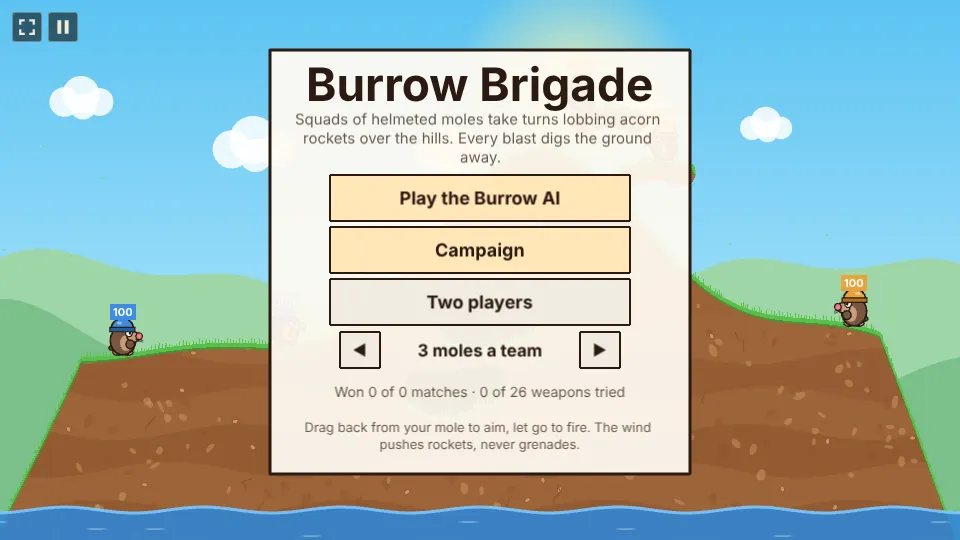
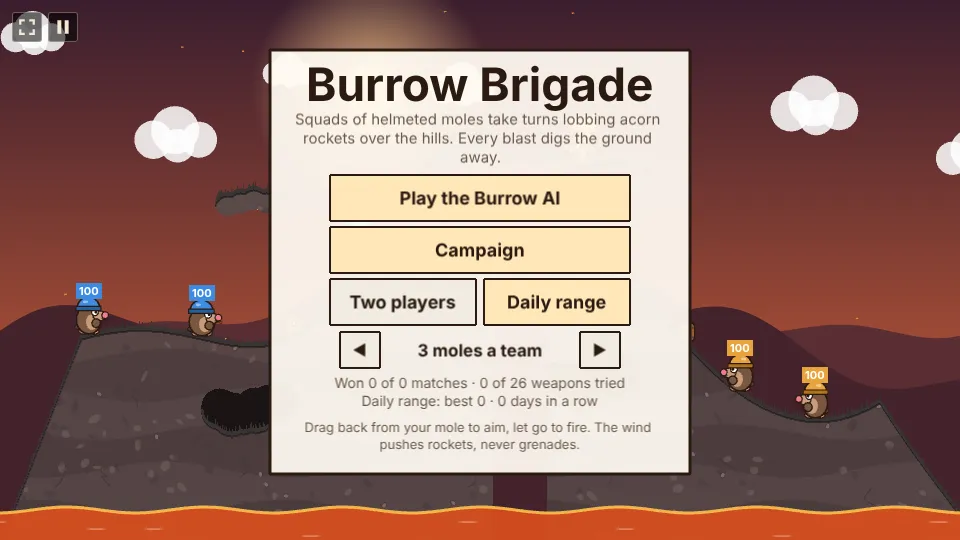
Burrow Brigade: daily range, match report and keg-aware AI (#743)
Requested by **Chriszly**

- Daily range: one try a day on a seeded range the same for everyone (map, kegs and five winds): one mole, five shots, four straw moles; damage plus 25 per knockout, with best and streak.
- Match report: the result names the star of the match, the mole that dealt the most damage.
- The Burrow AI counts a blast that sets off a powder keg next to an enemy as a hit, and avoids kegs next to its own moles.

Created with Claude Opus 5.5 (low)

diff --git a/games/burrow-brigade/src/scenes/GameScene.ts b/games/burrow-brigade/src/scenes/GameScene.ts
@@ -1,5 +1,6 @@
 import Phaser from 'phaser';
 import { playMusic, playSting, ui } from '../../../../shared/audio';
+import { dailyRand, finishDaily, loadDaily, startDaily, type DailyRecord } from '../../../../shared/daily';
 import { viewSize } from '../../../../shared/scaling';
 import { byDifficulty, settings } from '../../../../shared/settings';
 import { award } from '../../../../shared/trophies';
@@ -41,6 +42,11 @@ const SUDDEN_DEATH_TURN = 24;
 const BOLT_CLOUD = 96;
 /** The left team panel starts right of the corner buttons (full screen and pause). */
 const LEFT_PANEL = 104;
+/** The daily range: shots you get, straw moles to knock over, and the bonus for each one out. */
+const DAILY_SHOTS = 5;
+const DAILY_TARGETS = 4;
+const DAILY_KO = 25;
+const GAME = 'burrow-brigade';
 const FONT = '"Trebuchet MS", "Segoe UI", system-ui, sans-serif';
 const hex = (n: number) => '#' + n.toString(16).padStart(6, '0');
 const C = {
@@ -67,7 +73,7 @@ export class GameScene extends Phaser.Scene {
   terrain!: Terrain;
   theme!: Theme;
   teams: Team[] = [];
-  mode: 'ai' | 'duo' | 'watch' = 'ai';
+  mode: 'ai' | 'duo' | 'watch' | 'daily' = 'ai';
   turn = 0;
   turns = 0;
   active: Mole | null = null;
@@ -90,6 +96,11 @@ export class GameScene extends Phaser.Scene {
   private suddenDeath = SUDDEN_DEATH_TURN;
   /** The Quartermaster's upgrades for your side in this match (none outside the campaign). */
   private boost = boosts({});
+  /** Damage each mole dealt to enemies this match, for the match report. */
+  private dealt = new Map<Mole, number>();
+  /** The daily range's winds, one a shot, from today's seed; and the record once it ends. */
+  private dailyWinds: number[] = [];
+  private daily: DailyRecord | null = null;
   private walkTarget: number | null = null;
   private walkTimer = 0;
   private hold = { left: false, right: false };
@@ -168,6 +179,7 @@ export class GameScene extends Phaser.Scene {
       battle: this.battle,
       stars: this.campaign.stars.slice(),
       acorns: this.campaign.acorns,
+      dailyScore: this.daily?.score ?? null,
       view: { w: this.W, h: this.H },
     };
   }
@@ -261,14 +273,19 @@ export class GameScene extends Phaser.Scene {
     this.uiObjs.push(this.add.text(cx, top + 98, t('tagline'), { fontFamily: FONT, fontSize: '15px', color: hex(C.dim), align: 'center', wordWrap: { width: 380 } }).setOrigin(0.5).setDepth(151));
     this.button('play-ai', cx, top + 158, 300, 46, t('playAi'), () => this.startMatch('ai'), true);
     this.button('campaign', cx, top + 210, 300, 46, t('campaign'), () => this.showCampaign(), true);
-    this.button('play-duo', cx, top + 262, 300, 46, t('playDuo'), () => this.startMatch('duo'));
+    this.button('play-duo', cx - 77, top + 262, 146, 46, t('playDuo'), () => this.startMatch('duo'));
+    const today = loadDaily(GAME);
+    const d = this.button('daily', cx + 77, top + 262, 146, 46, t('daily'), () => this.startDaily(), !today.played);
+    if (today.played) d.txt.setColor(hex(0xa09080));
     this.button('size-down', cx - 120, top + 310, 40, 36, '◀', () => this.setSize(-1));
     this.button('size-up', cx + 120, top + 310, 40, 36, '▶', () => this.setSize(1));
     this.texts.size = this.add.text(cx, top + 310, t('teamSize', { n: this.size }), { fontFamily: FONT, fontSize: '17px', color: hex(C.ink), fontStyle: 'bold' }).setOrigin(0.5).setDepth(151);
     this.uiObjs.push(this.texts.size);
     const used = this.stats.used.length;
     this.uiObjs.push(
-      this.add.text(cx, top + 352, t('statsLine', { wins: this.stats.wins, games: this.stats.games, used, all: WEAPON_IDS.length }), {
+      this.add.text(cx, top + 352, t('statsLine', { wins: this.stats.wins, games: this.stats.games, used, all: WEAPON_IDS.length }) + '\n' + (today.score !== null
+        ? t('dailyDone', { score: today.score, best: today.best, streak: t('streak', { n: today.streak }) })
+        : t('dailyLine', { best: today.best, streak: t('streak', { n: today.streak }) })), {
         fontFamily: FONT, fontSize: '14px', color: hex(C.dim), align: 'center', wordWrap: { width: 380 },
       }).setOrigin(0.5).setDepth(151),
     );
@@ -375,7 +392,17 @@ export class GameScene extends Phaser.Scene {
     this.showDepot();
   }
 
-  startMatch(mode: 'ai' | 'duo' | 'watch', battle: number | null = null) {
+  /** Today's range: one mole, a few straw moles, five shots, on a map and winds the same for everyone today. */
+  startDaily() {
+    if (loadDaily(GAME).played) {
+      ui('refuse');
+      return;
+    }
+    startDaily(GAME);
+    this.startMatch('daily');
+  }
+
+  startMatch(mode: 'ai' | 'duo' | 'watch' | 'daily', battle: number | null = null) {
     this.clearAll();
     this.mode = mode;
     this.battle = mode === 'ai' ? battle : null;
@@ -387,11 +414,24 @@ export class GameScene extends Phaser.Scene {
     this.turns = 0;
     this.shots = 0;
     this.lostMole = false;
+    this.dealt.clear();
+    this.daily = null;
     playMusic(SONG, 'battle');
-    this.buildWorld(bt ? [bt.mine + this.boost.moles, bt.foes] : this.size, bt?.theme, [MAX_HP + this.boost.hp, MAX_HP]);
+    if (mode === 'daily') {
+      // Today's map, kegs and winds come from the day's seed, so every player shoots the same range.
+      const rand = dailyRand(GAME);
+      const real = Math.random;
+      Math.random = rand;
+      try {
+        this.buildWorld([1, DAILY_TARGETS]);
+        this.dailyWinds = Array.from({ length: DAILY_SHOTS }, () => Math.round((rand() * 2 - 1) * 10));
+      } finally {
+        Math.random = real;
+      }
+    } else this.buildWorld(bt ? [bt.mine + this.boost.moles, bt.foes] : this.size, bt?.theme, [MAX_HP + this.boost.hp, MAX_HP]);
     if (bt) for (const [id, n] of Object.entries(bt.bonus) as [WeaponId, number][]) this.teams[1].ammo[id] += n;
     for (const [id, n] of Object.entries(this.boost.ammo) as [WeaponId, number][]) this.teams[0].ammo[id] += n;
-    this.teams[1].ai = mode !== 'duo';
+    this.teams[1].ai = mode !== 'duo' && mode !== 'daily';
     this.teams[0].ai = mode === 'watch';
     this.turn = Math.random() < 0.5 && mode === 'watch' ? 1 : 0;
     this.buildHud();
@@ -401,7 +441,7 @@ export class GameScene extends Phaser.Scene {
         sides: { blue: { name: t('teamBlue'), color: hex(TEAM_COLORS[0]) }, amber: { name: t('teamAmber'), color: hex(TEAM_COLORS[1]) } },
         time: () => this.world.time * 1000,
       });
-    else {
+    else if (mode !== 'daily') {
       this.stats.games++;
       saveStats(this.stats);
     }
@@ -423,10 +463,11 @@ export class GameScene extends Phaser.Scene {
     this.world.turnTeam = this.turn;
     this.world.log = World.freshLog();
     const calm = Math.random() < 0.15;
+    if (this.mode === 'daily') this.world.wind = this.dailyWinds[Math.min(this.turns, DAILY_SHOTS - 1)];
     const kind = this.battle === null ? 'normal' : BATTLES[this.battle].wind;
     if (kind === 'strong') this.world.wind = (Math.random() < 0.5 ? -1 : 1) * Math.round(6 + Math.random() * 4);
     else if (kind === 'calm') this.world.wind = Math.round((Math.random() * 2 - 1) * 3);
-    else this.world.wind = calm ? 0 : Math.round((Math.random() * 2 - 1) * 10);
+    else if (this.mode !== 'daily') this.world.wind = calm ? 0 : Math.round((Math.random() * 2 - 1) * 10);
     this.phase = 'aim';
     this.timer = TURN_TIME + (this.turn === 0 ? this.boost.time : 0);
     this.aimAngle = m.facing > 0 ? -Math.PI / 4 : (-3 * Math.PI) / 4;
@@ -446,6 +487,12 @@ export class GameScene extends Phaser.Scene {
     const alive = this.teams.map((tm) => tm.moles.some((m) => m.alive));
     this.winner = alive[0] && !alive[1] ? 0 : alive[1] && !alive[0] ? 1 : -1;
     if (this.winner >= 0) for (const m of this.teams[this.winner].moles) if (m.alive) m.act = { kind: 'cheer', t: 0, dur: 99 };
+    if (this.mode === 'daily') {
+      this.daily = finishDaily(GAME, this.dailyScore());
+      playSting(SONG, 'win');
+      this.showResult();
+      return;
+    }
     if (this.mode === 'watch') {
       aiLog(this.winner === 1 ? 'amber' : 'blue', this.winner < 0 ? t('draw') : t('wins', { team: this.teamName(this.winner) }));
       this.time.delayedCall(4000, () => this.startMatch('watch'));
@@ -477,22 +524,56 @@ export class GameScene extends Phaser.Scene {
     this.showResult();
   }
 
+  /** The range's score: the damage done to the straw moles, plus a bonus for each one knocked out. */
+  private dailyScore() {
+    const straw = this.teams[1]?.moles ?? [];
+    return straw.reduce((s, m) => s + (m.maxHp - (m.alive ? m.hp : 0)) + (m.alive ? 0 : DAILY_KO), 0);
+  }
+
+  /** The mole that dealt the most damage to enemies this match, if any did. */
+  private star() {
+    let best: Mole | null = null;
+    for (const [m, n] of this.dealt) if (n > 0 && (!best || n > this.dealt.get(best)!)) best = m;
+    return best;
+  }
+
   private showResult() {
     this.clearUi();
     this.buildHud();
     const cx = this.W / 2;
     const cy = this.H / 2 - 20;
+    if (this.mode === 'daily') return this.showDailyResult(cx, cy);
     const tall = this.battle !== null;
-    this.uiObjs.push(this.add.rectangle(cx, tall ? cy + 40 : cy, 400, tall ? 320 : 200, C.panel, 0.95).setStrokeStyle(3, C.panelEdge).setDepth(150));
+    this.uiObjs.push(this.add.rectangle(cx, tall ? cy + 54 : cy + 12, 400, tall ? 348 : 224, C.panel, 0.95).setStrokeStyle(3, C.panelEdge).setDepth(150));
+    const star = this.star();
+    if (star)
+      this.uiObjs.push(
+        this.add.text(cx, cy + 4, t('starMole', { name: star.name, n: this.dealt.get(star)! }), { fontFamily: FONT, fontSize: '14px', color: hex(TEAM_COLORS[star.team]), fontStyle: 'bold' })
+          .setOrigin(0.5).setDepth(151),
+      );
     const title = this.winner! < 0 ? t('draw') : t('wins', { team: this.teamName(this.winner!) });
     this.uiObjs.push(
       this.add.text(cx, cy - 60, title, { fontFamily: FONT, fontSize: '30px', color: hex(this.winner! >= 0 ? TEAM_COLORS[this.winner!] : C.ink), fontStyle: 'bold', stroke: hex(INK), strokeThickness: 3 })
         .setOrigin(0.5).setDepth(151),
     );
     this.uiObjs.push(this.add.text(cx, cy - 20, t('resultLine', { turns: this.turns, shots: this.shots }), { fontFamily: FONT, fontSize: '15px', color: hex(C.dim) }).setOrigin(0.5).setDepth(151));
-    if (this.battle !== null) return this.showBattleResult(cx, cy);
-    this.button('rematch', cx, cy + 30, 260, 42, t('rematch'), () => this.startMatch(this.mode === 'duo' ? 'duo' : 'ai'), true);
-    this.button('menu', cx, cy + 78, 260, 36, t('menu'), () => this.showMenu());
+    if (this.battle !== null) return this.showBattleResult(cx, cy + 22);
+    this.button('rematch', cx, cy + 50, 260, 42, t('rematch'), () => this.startMatch(this.mode === 'duo' ? 'duo' : 'ai'), true);
+    this.button('menu', cx, cy + 98, 260, 36, t('menu'), () => this.showMenu());
+  }
+
+  /** The daily range's result: today's score, the best and the streak; one try a day. */
+  private showDailyResult(cx: number, cy: number) {
+    const d = this.daily!;
+    const out = this.teams[1].moles.filter((m) => !m.alive).length;
+    this.uiObjs.push(this.add.rectangle(cx, cy + 10, 400, 230, C.panel, 0.95).setStrokeStyle(3, C.panelEdge).setDepth(150));
+    this.uiObjs.push(
+      this.add.text(cx, cy - 70, t('daily'), { fontFamily: FONT, fontSize: '22px', color: hex(C.ink), fontStyle: 'bold' }).setOrigin(0.5).setDepth(151),
+      this.add.text(cx, cy - 32, t('dailyScore', { n: d.score ?? 0 }), { fontFamily: FONT, fontSize: '30px', color: hex(TEAM_COLORS[0]), fontStyle: 'bold', stroke: hex(INK), strokeThickness: 3 }).setOrigin(0.5).setDepth(151),
+      this.add.text(cx, cy + 6, t('dailyOut', { n: out, all: this.teams[1].moles.length }), { fontFamily: FONT, fontSize: '14px', color: hex(C.dim) }).setOrigin(0.5).setDepth(151),
+      this.add.text(cx, cy + 30, t('dailyBest', { best: d.best, streak: t('streak', { n: d.streak }) }), { fontFamily: FONT, fontSize: '14px', color: hex(C.ink), fontStyle: 'bold' }).setOrigin(0.5).setDepth(151),
+    );
+    this.button('menu', cx, cy + 82, 260, 40, t('dailyBack'), () => this.showMenu(), true);
   }
 
   /** A campaign battle's result: the three stars and what each asks, then on to the next battle. */
@@ -524,6 +605,7 @@ export class GameScene extends Phaser.Scene {
   }
 
   private teamName(i: number) {
+    if (i === 1 && this.mode === 'daily') return t('strawMoles');
     if (i === 1 && this.battle !== null) return t(`c_${BATTLES[this.battle].id}`);
     return i === 0 ? t('teamBlue') : t('teamAmber');
   }
@@ -983,9 +1065,16 @@ export class GameScene extends Phaser.Scene {
     }
     if (this.mode === 'ai' && this.teams[0].moles.some((m) => !m.alive)) this.lostMole = true;
     if (this.mode === 'watch' && log.damage) aiLog(this.side(), t('logDamage', { n: log.damage }));
+    if (this.active && log.damage) this.dealt.set(this.active, (this.dealt.get(this.active) ?? 0) + log.damage);
     this.turns++;
     const alive = this.teams.map((tm) => tm.moles.some((m) => m.alive));
     if (!alive[0] || !alive[1]) return this.finish();
+    if (this.mode === 'daily') {
+      // The straw moles never shoot back: the next shot is yours again, until the shots run out.
+      if (this.turns >= DAILY_SHOTS) return this.finish();
+      this.world.turnTeam = -1;
+      return this.beginTurn();
+    }
     // Sudden death: the water rises.
     if (this.turns >= this.suddenDeath) this.world.water -= 8;
     // Now and then a crate floats down.
@@ -1199,7 +1288,10 @@ export class GameScene extends Phaser.Scene {
         h.lineStyle(3, TEAM_COLORS[i], 1);
         h.strokeRoundedRect(x - 3, 5, 226, 50, 12);
       }
-      this.texts[`team${i}`]?.setText(`${this.teamName(i)}${tm.ai && this.battle === null ? ' · ' + t('aiTag') : ''}  ${tm.moles.filter((m) => m.alive).length}/${tm.moles.length}`);
+      const count = this.mode === 'daily' && i === 0
+        ? t('shotOf', { n: Math.min(this.turns + 1, DAILY_SHOTS), all: DAILY_SHOTS })
+        : `${tm.moles.filter((m) => m.alive).length}/${tm.moles.length}`;
+      this.texts[`team${i}`]?.setText(`${this.teamName(i)}${tm.ai && this.battle === null ? ' · ' + t('aiTag') : ''}  ${count}`);
     });
     // Wind.
     h.fillStyle(C.panel, 0.92);

diff --git a/games/burrow-brigade/src/howToPlay.ts b/games/burrow-brigade/src/howToPlay.ts
@@ -18,6 +18,7 @@ const en: HowToPlay = {
     'After you fire you have 3 seconds to scramble away from your own blast.',
     'Then the other team’s next mole takes its turn.',
     'The Campaign is eight battles against rival burrows, each with its own habit. Win one to open the next, and earn up to three stars: the win, a quick win and losing no mole.',
+    'The Daily range is one try a day, the same for everyone: five shots at four straw moles. Every point of damage counts, and each one knocked out adds 25.',
     'Campaign battles pay acorns. Spend them at the Quartermaster on helmets, longer turns, extra weapons, more crates and a new recruit.',
   ],
   tips: [
@@ -48,6 +49,7 @@ const de: HowToPlay = {
     'Nach dem Schuss hast du 3 Sekunden, um vor deiner eigenen Explosion zu fliehen.',
     'Dann ist der nächste Maulwurf des anderen Teams dran.',
     'Der Feldzug sind acht Schlachten gegen rivalisierende Baue, jeder mit seiner Eigenart. Gewinne eine, um die nächste zu öffnen, und hol bis zu drei Sterne: den Sieg, einen schnellen Sieg und keinen verlorenen Maulwurf.',
+    'Das Tagesziel ist ein Versuch am Tag, für alle gleich: fünf Schüsse auf vier Strohmaulwürfe. Jeder Schadenspunkt zählt, und jeder umgeworfene bringt 25 dazu.',
     'Schlachten im Feldzug bringen Eicheln. Gib sie beim Quartiermeister für Helme, längere Züge, Extrawaffen, mehr Kisten und einen neuen Rekruten aus.',
   ],
   tips: [

diff --git a/games/burrow-brigade/src/game/ai.ts b/games/burrow-brigade/src/game/ai.ts
@@ -73,6 +73,14 @@ export function planTurn(world: World, me: Mole, ammo: Record<WeaponId, number>,
         let score = Math.hypot(f.hit.x - target.x, f.hit.y - (target.y - 10));
         // Any enemy in the blast counts.
         for (const e of enemies) score = Math.min(score, Math.hypot(f.hit.x - e.x, f.hit.y - (e.y - 10)) + (e === target ? 0 : 12));
+        // A powder keg in the blast goes off too: good next to an enemy, bad next to a friend.
+        for (const k of world.kegs) {
+          if (Math.hypot(f.hit.x - k.x, f.hit.y - (k.y - 9)) > w.radius + 10) continue;
+          const near = (m: Mole) => Math.hypot(m.x - k.x, m.y - k.y) < 50;
+          if (near(me)) score += 600;
+          else if (friends.some(near)) score += 250;
+          else if (enemies.some(near)) score = Math.min(score, 4);
+        }
         if (Math.hypot(f.hit.x - me.x, f.hit.y - (me.y - 10)) < reach + 6) score += 600;
         for (const fr of friends) if (Math.hypot(f.hit.x - fr.x, f.hit.y - (fr.y - 10)) < reach) score += 250;
         // A thrown weapon rolls on: a little worse than a clean hit at the same spot.

diff --git a/games/burrow-brigade/src/i18n/de.ts b/games/burrow-brigade/src/i18n/de.ts
@@ -43,6 +43,17 @@ const de: Translation<typeof en> = {
   starWin: 'Gewinne die Schlacht',
   starPar: { one: 'Gewinne in höchstens {n} Runde', other: 'Gewinne in höchstens {n} Runden' },
   starFlawless: 'Verliere keinen Maulwurf',
+  daily: 'Tagesziel',
+  dailyLine: 'Tagesziel: Bestwert {best} · {streak}',
+  dailyDone: 'Tagesziel heute erledigt: {score} · Bestwert {best} · {streak}',
+  dailyScore: '{n} Punkte',
+  dailyOut: '{n} von {all} Strohmaulwürfen umgeworfen',
+  dailyBest: 'Bestwert {best} · {streak}',
+  dailyBack: 'Bis morgen',
+  streak: { one: '{n} Tag in Folge', other: '{n} Tage in Folge' },
+  strawMoles: 'Strohmaulwürfe',
+  shotOf: 'Schuss {n} von {all}',
+  starMole: 'Star der Partie: {name}, {n} Schaden',
   depot: 'Quartiermeister',
   acorns: 'Eicheln zum Ausgeben: {n}',
   acornsWon: '+{n} Eicheln',

diff --git a/games/burrow-brigade/src/i18n/en.ts b/games/burrow-brigade/src/i18n/en.ts
@@ -40,6 +40,17 @@ const en = {
   starWin: 'Win the battle',
   starPar: { one: 'Win within {n} turn', other: 'Win within {n} turns' },
   starFlawless: 'Lose no mole',
+  daily: 'Daily range',
+  dailyLine: 'Daily range: best {best} · {streak}',
+  dailyDone: 'Daily range done today: {score} · best {best} · {streak}',
+  dailyScore: '{n} points',
+  dailyOut: '{n} of {all} straw moles knocked out',
+  dailyBest: 'Best {best} · {streak}',
+  dailyBack: 'See you tomorrow',
+  streak: { one: '{n} day in a row', other: '{n} days in a row' },
+  strawMoles: 'Straw moles',
+  shotOf: 'shot {n} of {all}',
+  starMole: 'Star of the match: {name}, {n} damage',
   depot: 'Quartermaster',
   acorns: 'Acorns to spend: {n}',
   acornsWon: '+{n} acorns',

diff --git a/games/burrow-brigade/AGENTS.md b/games/burrow-brigade/AGENTS.md
@@ -9,6 +9,14 @@ the game, and keep it up to date in the same PR as the change (see the root `AGE
   screen, and Watch AI (`?watch`, both teams run by the AI, a new match four seconds after one
   ends). Teams have 2 to 5 moles (`size` in `burrow-brigade-prefs`, 3 by default), picked on the
   menu. There is no save of a match under way.
+- **Daily range** (`mode` `daily`, `startDaily` in the scene, with `shared/daily.ts`): one try a
+  day. `Math.random` is swapped for `dailyRand` while `buildWorld` makes the map, theme and kegs,
+  and the five winds (`dailyWinds`) are drawn from it too, so everyone shoots the same range: one
+  blue mole against `DAILY_TARGETS` (4) straw moles that never take a turn, for `DAILY_SHOTS` (5)
+  turns. The score (`dailyScore`) is the damage done to them plus `DAILY_KO` (25) for each one
+  out; `finishDaily` keeps today's, the best and the streak, shown on the menu and the result.
+- **Match report:** `dealt` adds up each mole's damage to enemies (from `World.log.damage` at the
+  end of its turn), and the result names the star of the match (`star`).
 - **Campaign** (`game/campaign.ts`): eight battles (`BATTLES`) against rival burrows, played from
   the menu's Campaign screen (`showCampaign`, a card per battle). Each has a set theme, its own team
   sizes (`mine` against `foes`, ignoring the menu's size), an aim multiplier for the AI (`aim`), a
@@ -56,7 +64,9 @@ the game, and keep it up to date in the same PR as the change (see the root `AGE
   next to it, the Repair Kit below 40 health, now and then a Storm Bolt or Balloon Drop (aimed
   upwind for the drift), otherwise tries Acorn Rocket, Pebble Grenade and sometimes one special over
   a grid of angles and powers with the game's own `flight`, scoring the miss, with big penalties for
-  hurting itself or a friend. With no shot within 170 px it walks towards the target once and plans
+  hurting itself or a friend. A shot whose blast reaches a powder keg next to an enemy scores as a
+  hit (and as a self or friendly hit if the keg is next to its own side). With no shot within 170
+  px it walks towards the target once and plans
   again. `aimError` from the difficulty (`byDifficulty(2.4, 1, 0.35)`) shakes the chosen angle and
   power.
 - **Difficulty:** the AI's aim error above, and the aim preview while dragging or charging:
@@ -98,6 +108,7 @@ the game, and keep it up to date in the same PR as the change (see the root `AGE
 - `burrow-brigade-prefs`: `{ size }`, moles a team.
 - `burrow-brigade-campaign`: `{ stars, acorns, levels }`, the best stars (0 to 3) of each campaign
   battle by its place in `BATTLES`, the acorns to spend and the Quartermaster's levels by id.
+- `burrow-brigade-daily`: the daily range's record (`shared/daily.ts`).
 - `burrow-brigade-trophies`: the shared trophies.
 
 ## Test hooks
@@ -105,8 +116,8 @@ the game, and keep it up to date in the same PR as the change (see the root `AGE
 - `window.game` (dev build). `scene.state` gives `screen`, `phase`, `mode`, `turn`, `turns`,
   `wind`, `weapon`, `active` (`id`, `team`, `x`, `y`, `hp`, `alive`), `craters`, `shots`, `busy`,
   `teams` (`alive`, `hp`), `winner`, `arsenal`, `battle` (the campaign battle, or null), `stars`
-  (the campaign's best stars), `acorns` and `view` (the view's size, to turn view pixels into
-  page pixels). `scene.buttons` has every button by id: `play-ai`, `campaign`, `play-duo`,
+  (the campaign's best stars), `acorns`, `dailyScore` (the daily range's score once it ends) and `view` (the view's size, to turn view pixels into
+  page pixels). `scene.buttons` has every button by id: `play-ai`, `campaign`, `play-duo`, `daily`,
   `size-down`, `size-up`, `weapon`, `left`, `right`, `jump`, `fire`, `rematch`, `menu`, `w-<id>`
   for the arsenal's tiles while it is open, `battle-<i>`, `depot` and `back` on the Campaign
   screen, `buy-<id>` and `back` at the Quartermaster, and `next` on a won battle's result.

diff --git a/games/burrow-brigade/README.md b/games/burrow-brigade/README.md
@@ -3,8 +3,8 @@
 Turn-based artillery with squads of helmeted moles. Each turn one of your moles walks, aims with a
 slingshot drag and fires one of 26 weapons over the hills. Every blast digs the ground away and
 throws moles about, the wind changes every turn, and a mole that falls into the water is out. The
-last team with a mole standing wins. Play the Burrow AI, a campaign of eight rival burrows, or a
-friend on one screen.
+last team with a mole standing wins. Play the Burrow AI, a campaign of eight rival burrows, the daily
+range, or a friend on one screen.
 
 ![Aiming an Acorn Rocket over the ridge](docs/screenshots/aim.webp)
 
@@ -28,6 +28,15 @@ friend on one screen.
   acorns, flames and bees, but never thrown weapons.
 
 ![The arsenal](docs/screenshots/arsenal.webp)
+
+## Daily range
+
+One try a day at a range that is the same for every player that day: one mole, five shots, the
+day's winds and four straw moles. Every point of damage scores, and each straw mole knocked out
+adds 25. The menu keeps your best and your days in a row. After every match the result names the
+star of the match, the mole that did the most damage.
+
+![The daily range](docs/screenshots/daily.webp)
 
 ## Campaign
 
